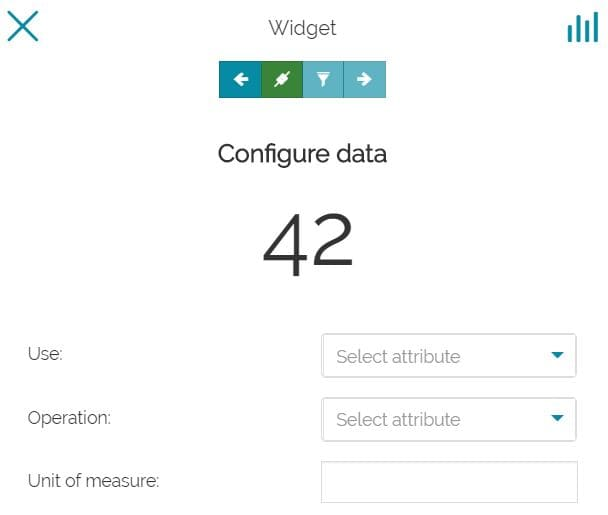
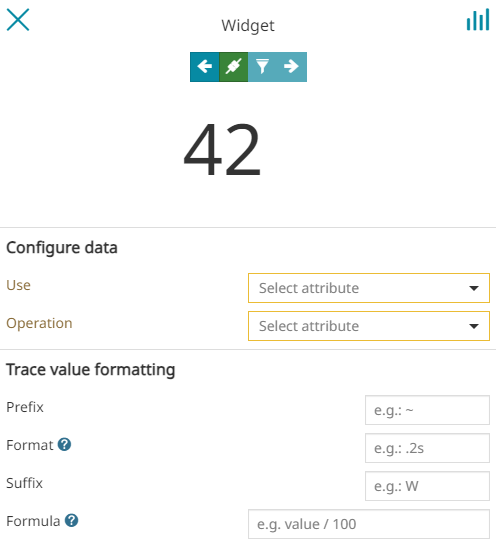
new_counter_ui

diff --git a/docs/user-guide/widgets.md b/docs/user-guide/widgets.md
@@ -374,10 +374,17 @@ Also in this case the toolbar is similar to the one present in [Chart section](#
 
 * Select the **Operation** to perform
 
-* Set the **Unit of measure** that will be displayed
+From the **Trace value formatting** section, the user is allowed to:
+
+* Customize the labels by adding a *Prefix* (e.g. `~`), a custom *Format* (e.g. `0%: rounded percentage, '12%'` or more) or a *Suffix* (e.g. `Km`).
+
+* Configure a *Formula* to transform tick values as needed (e.g. `value + 2` or `value / 100` or more).
+
+!!! Note
+    More information about the syntax options allowed for **Format** are available [here](https://d3-wiki.readthedocs.io/zh_CN/master/Formatting/) and the allowed expression to be used as **Formula** are available [here](https://github.com/m93a/filtrex#expressions) in the online documentation.
 
 !!! warning
-    In order to move forward to the next step, only the **Use** and the **Count** are considered as mandatory fields.
+    In order to move forward to the next step, only the **Use** and the **Operation** are considered as mandatory fields.
 
 Once the <img src="../img/button/next.jpg" class="ms-docbutton"/> button is clicked, the panel of the last step appears:
 
